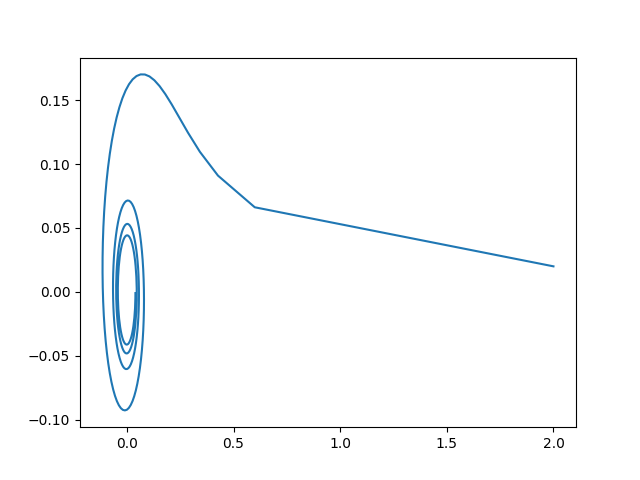
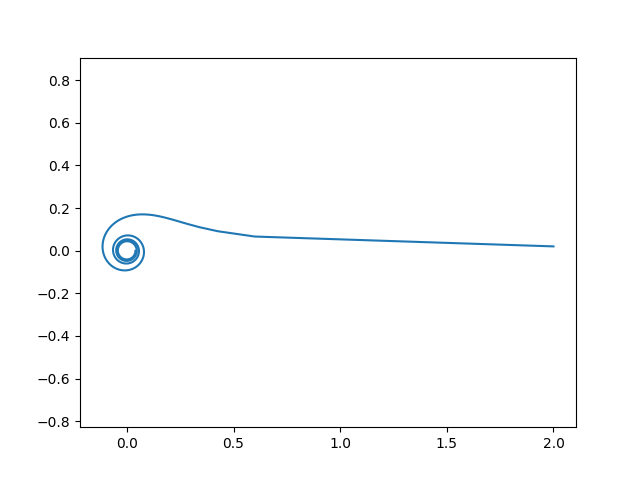
5345454353

diff --git a/lab_6_task_4_4.py b/lab_6_task_4_4.py
@@ -2,7 +2,7 @@ import matplotlib.pyplot as plt
 import numpy as np 
 
 phi = np.arange(0.01, 8*np.pi, 0.1)
-r = np.sin(0.2*phi)
+r = np.sin(5*phi)
 
 x = np.cos(phi)*r
 y = np.sin(phi)*r

diff --git a/lab_6_task_4_3.py b/lab_6_task_4_3.py
@@ -8,4 +8,5 @@ x = np.cos(phi)*r
 y = np.sin(phi)*r
 
 plt.plot(x, y)
+plt.axis('equal')
 plt.savefig('fig_lab_6_task_4_3.png')
